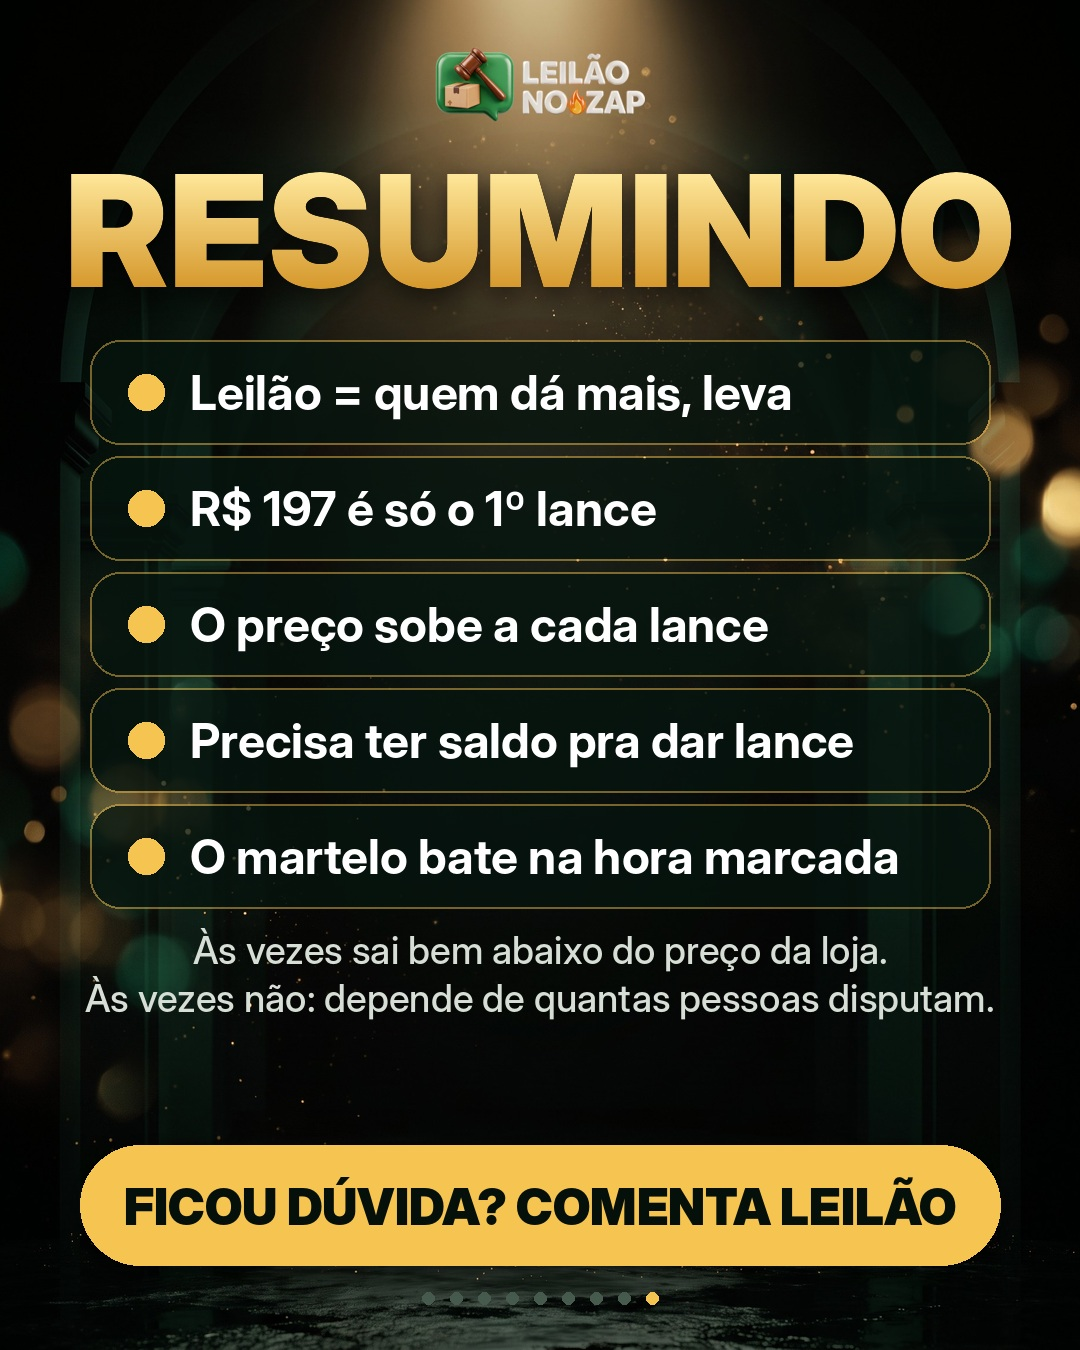
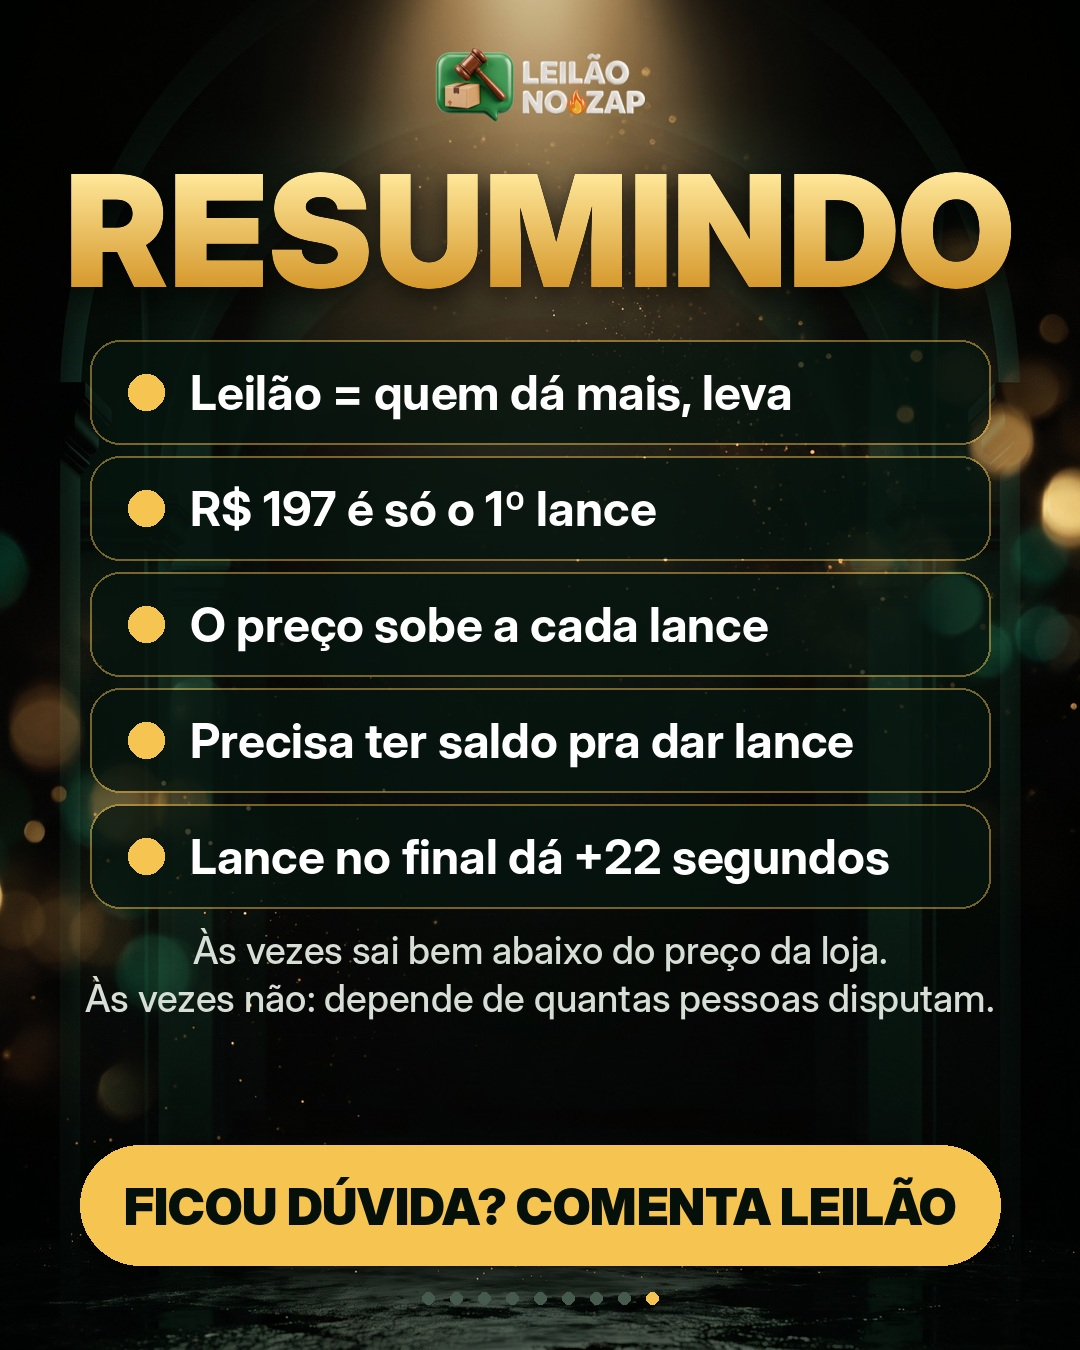
Carrossel do leilão: slide '20h não é o fim' (+22 s por lance nos últimos 2 min; sábado fechou 20h38)
Claude-Session: https://claude.ai/code/session_01JihU9VfVTYTrMqQpApFEjH

Changed region(s): [[0.1833, 0.6222, 0.8556, 0.6533]]

diff --git a/marketing/posts/2026-11-10-carrossel-como-funciona-leilao/fonte/carrossel.py b/marketing/posts/2026-11-10-carrossel-como-funciona-leilao/fonte/carrossel.py
@@ -164,14 +164,20 @@ for tit, sub, dest in [('Deu lance?', 'o valor fica GUARDADO', False), ('Alguém
 T(b, (W/2, 1180), 'Sem saldo, o lance não entra.', F('Black', 46), BR)
 S.append(b)
 
-# 7 — quando o tempo acaba
-b = fundo('podio'); topo(b, 7, TOT)
-T(b, (W/2, 210), 'QUANDO O TEMPO ACABA…', F('Black', 74), BR)
-OUROT(b, (W/2, 400), 'TOC!', F('Black', 260))
-T(b, (W/2, 590), 'O martelo bate.', F('Black', 70), BR)
-T(b, (W/2, 672), 'Quem deu o lance MAIS ALTO, leva.', F('Black', 54), OURO)
-pil(b, W/2, 800, 'O PS5 FECHA SÁBADO (14/11) ÀS 20H', F('Black', 40))
-c = caixa.copy(); c.thumbnail((380, 250)); base = int(PODIO_TOPO*H) + 8; luz(b, W/2, base - c.height*0.5, 200); poe(b, c, W/2, base)
+# 7 — 20h não é o fim: lance nos últimos 2min22s dá +22 segundos (submitAtomicBid: COUNTDOWN_DURATION 142, BID_EXTENSION_SECONDS 22)
+b = fundo('texto'); topo(b, 7, TOT)
+T(b, (W/2, 200), '20H NÃO É', F('Black', 120), BR)
+OUROT(b, (W/2, 330), 'O FIM!', F('Black', 170))
+T(b, (W/2, 470), 'Se alguém dá lance no finalzinho,', F('Bold', 50), BR)
+T(b, (W/2, 532), 'o relógio GANHA MAIS TEMPO:', F('Bold', 50), BR)
+card(b, (150, 590, W-150, 790), True)
+OUROT(b, (W/2, 670), '+22 SEGUNDOS', F('Black', 96))
+T(b, (W/2, 750), 'a cada lance nos últimos 2 minutos', F('Bold', 36), CINZA, somb=0)
+T(b, (W/2, 870), 'Sábado, o iPhone 17 só fechou às 20h38!', F('Black', 48), OURO)   # banco: fim 20:38:30, último lance 20:38:07
+T(b, (W/2, 930), 'Às 20h é quando pega fogo.', F('Bold', 46), BR)
+card(b, (90, 1000, W-90, 1210))
+T(b, (W/2, 1055), 'Só acaba quando NINGUÉM mais dá lance.', F('Black', 44), BR, somb=0)
+OUROT(b, (W/2, 1140), 'TOC! QUEM DEU MAIS, LEVA', F('Black', 64))
 S.append(b)
 
 # 8 — como dar seu lance
@@ -191,7 +197,7 @@ S.append(b)
 b = fundo('texto'); topo(b, 9, TOT, seta=False)
 OUROT(b, (W/2, 230), 'RESUMINDO', F('Black', 160))
 y = 340
-for t in ['Leilão = quem dá mais, leva', 'R$ 197 é só o 1º lance', 'O preço sobe a cada lance', 'Precisa ter saldo pra dar lance', 'O martelo bate na hora marcada']:
+for t in ['Leilão = quem dá mais, leva', 'R$ 197 é só o 1º lance', 'O preço sobe a cada lance', 'Precisa ter saldo pra dar lance', 'Lance no final dá +22 segundos']:
     card(b, (90, y, W-90, y+104)); d = ImageDraw.Draw(b); d.ellipse((128, y+34, 164, y+70), fill=OURO)
     T(b, (190, y+52), t, F('Bold', 48), BR, anchor='lm', maxw=W-300, somb=0); y += 116
 T(b, (W/2, y+30), 'Às vezes sai bem abaixo do preço da loja.', F('Medium', 38), CINZA, somb=0)
